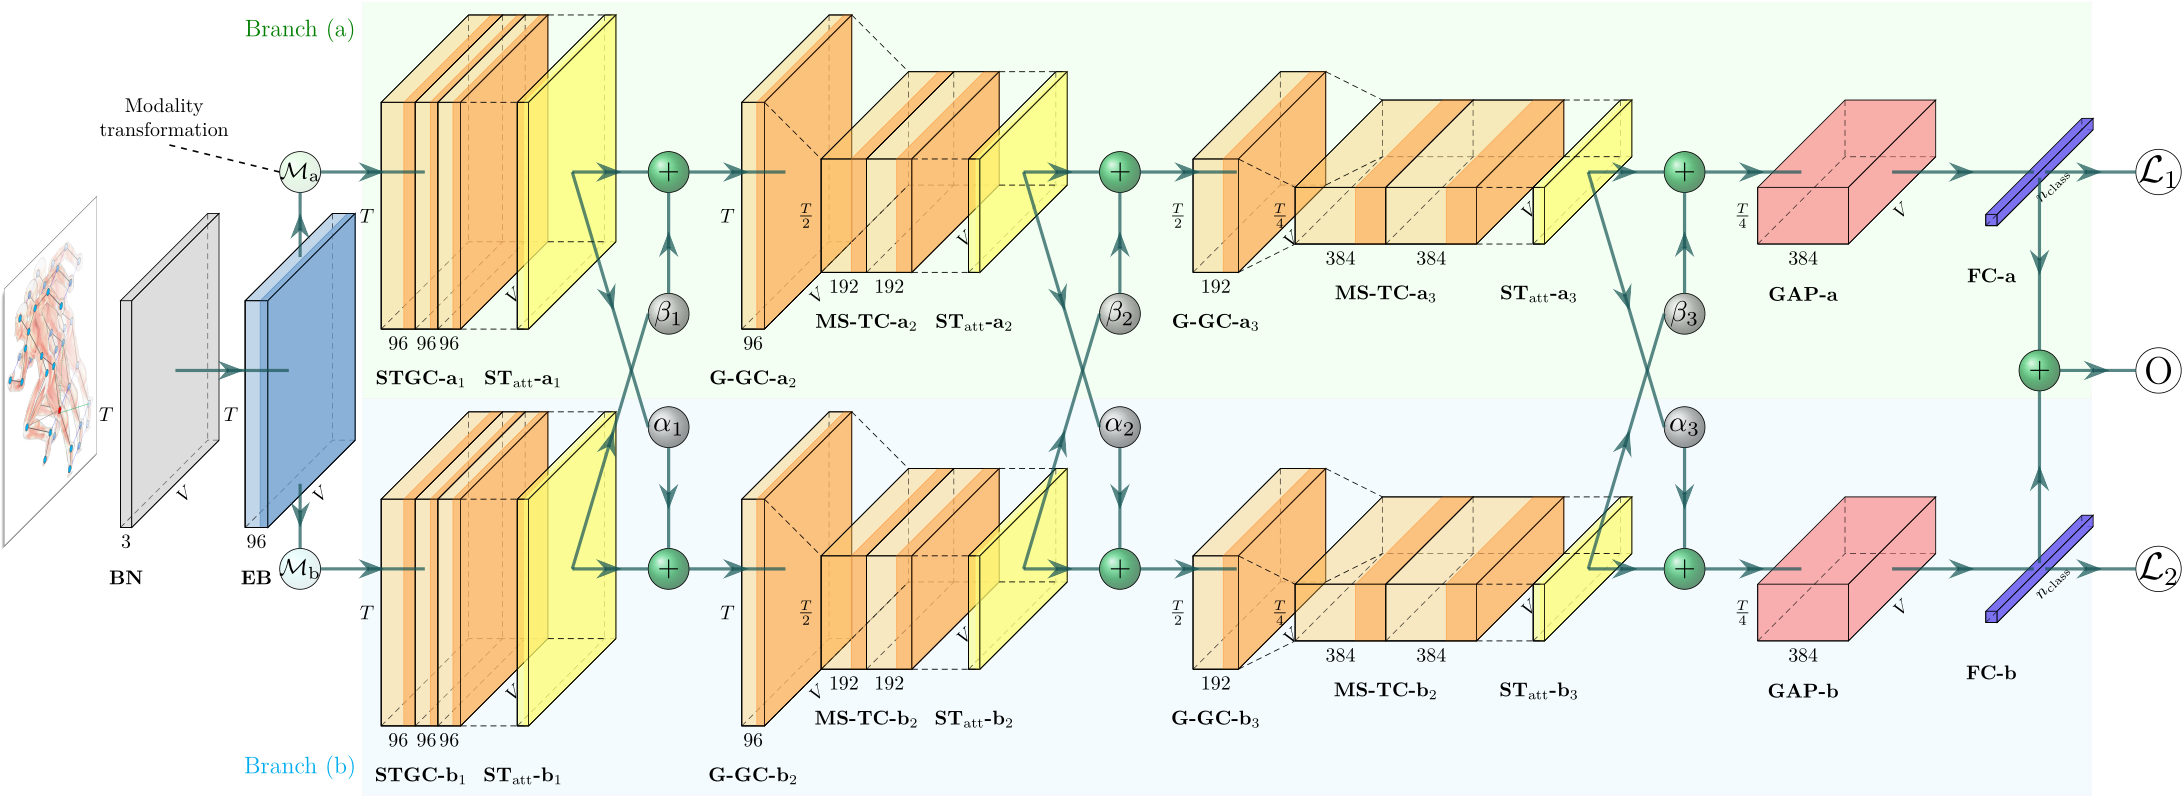
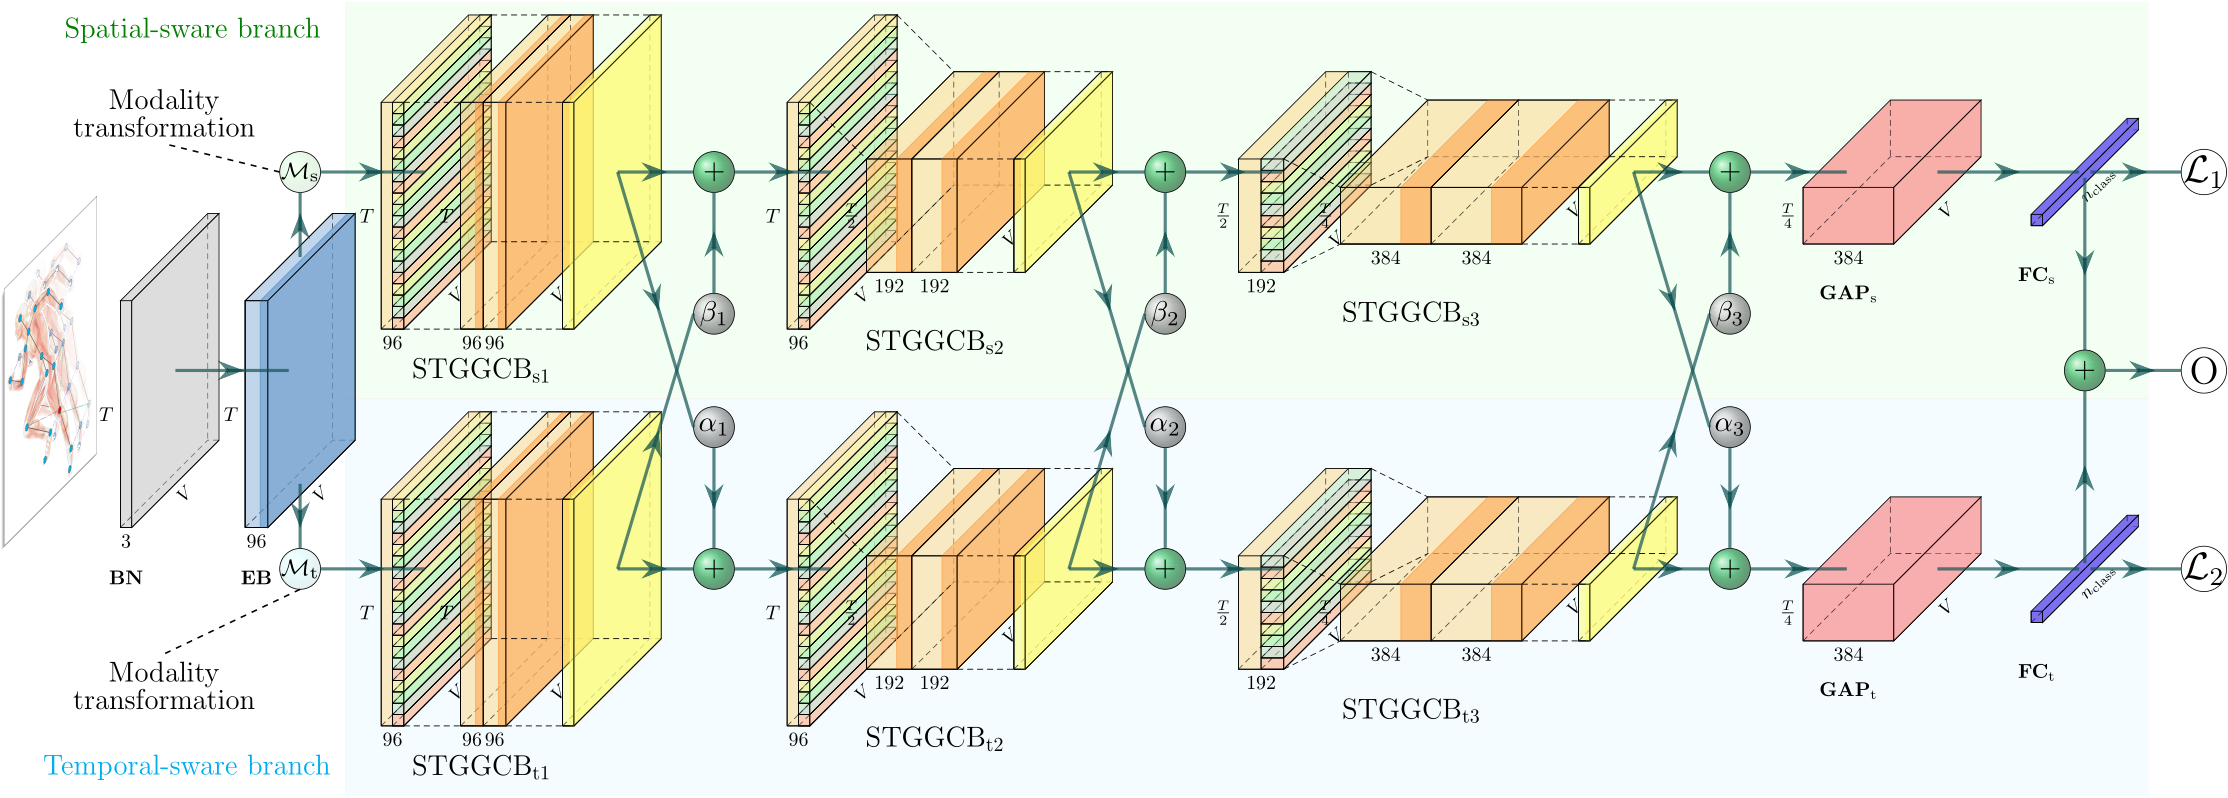
update method name

diff --git a/README.md b/README.md
@@ -1,12 +1,15 @@
-# EGGCN: Efficient Group Graph Convolutional Network for Skeleton-Based Action Recognition
+# Complementary Group Graph Convolutional
+Network for Skeleton-Based Action Recognition
 
-This repo is the official implementation for *EGGCN: Efficient Group Graph Convolutional Network for Skeleton-Based Action Recognition*. 
+This repo is the official implementation for *Complementary Group Graph Convolutional
+Network (CGGCN) for Skeleton-Based Action Recognition*. 
 
 ![Framework of EGGCN](./imgs/overview.png)
 
 <center>
-Framework overview of our proposed method: EGGCN is a novel model for skeleton-based action recognition, which achieves comparable performance on several large-scale datasets. The model uses a group spatial-temporal graph convolution to extract hierarchical features from the input skeleton sequences, and leverages efficient design choices to reduce the computational cost and memory footprint of the model.
+Framework overview of our proposed method: Our core insight is to exploit the complementarity of inherent multi-modal information of human actions at intra-branch and inter-branch levels. 
 </center>
+
 
 ## Prerequisites
 
